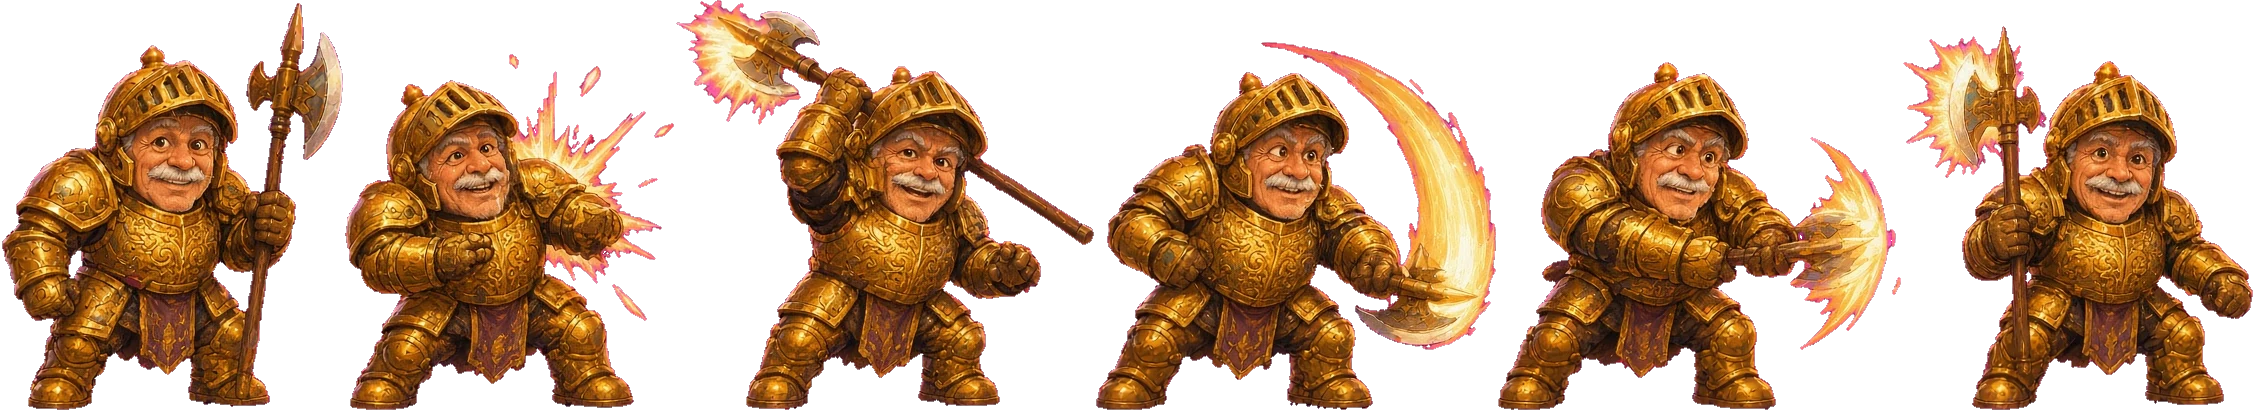
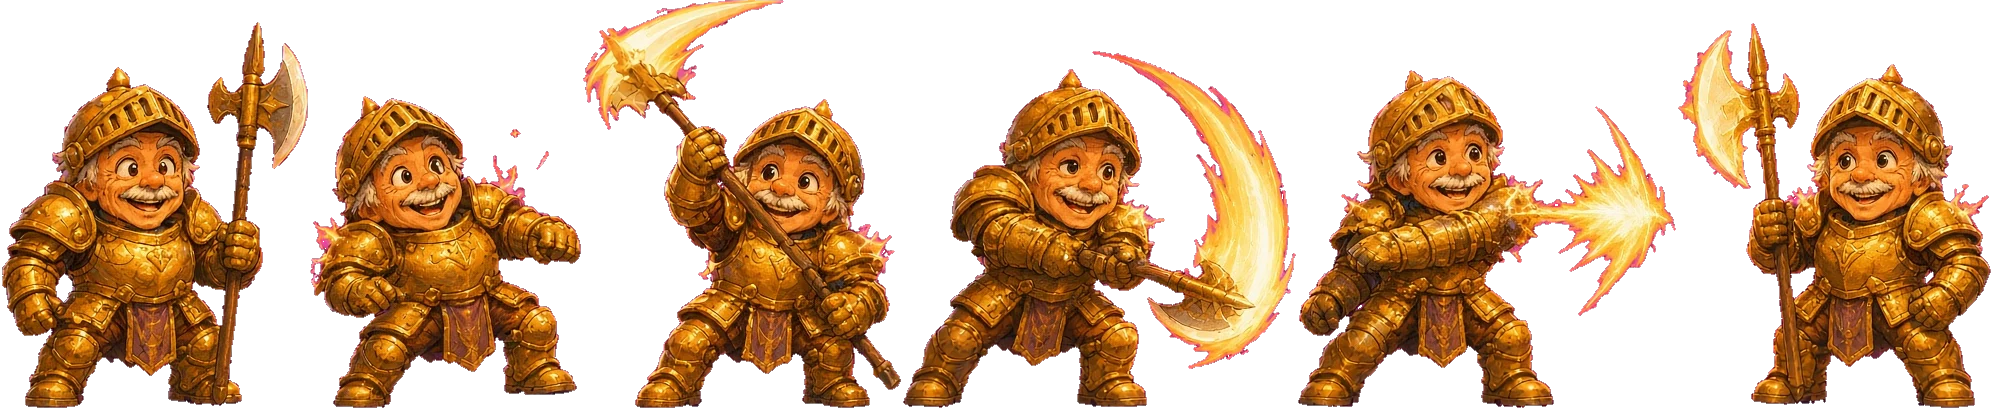
feat(foe): Warden Boppy painted sheet v2 with the new Boppy hero refs (warden2)
Claude-Session: https://claude.ai/code/session_01RXeukCcoDZiCMPdkG8dSdS

diff --git a/data/foes/warden-hires.js b/data/foes/warden-hires.js
@@ -1,4 +1,4 @@
 'use strict';
-// data/foes/warden-hires.js: generated by tools/sprite-bake/bake_foe_sheets.py from art/raw/enemies/enemy-warden-v1.png. Do not hand-edit; rebake.
+// data/foes/warden-hires.js: generated by tools/sprite-bake/bake_foe_sheets.py from art/raw/enemies/enemy-warden-v2.png. Do not hand-edit; rebake.
 if(typeof FOE_HIRES==='undefined') var FOE_HIRES={};
-FOE_HIRES.warden={"src":"art/foes/warden.webp","k":8.119,"frames":["stance","hurt","attack1","attack2","attack3","attack4"],"rects":{"stance":[2,3,341,407],"hurt":[345,54,329,356],"attack1":[676,0,418,410],"attack2":[1096,42,400,368],"attack3":[1498,62,403,348],"attack4":[1903,26,350,384]},"rows":{"stance":["....................................a.....","....................................b.....","...................................cb.....","...................................cb.....","...................................de..f..","..................b...............ddg..ff.",".................hgg...............ij..kf.",".................lmgabn........c..oho.cgff","................bggpghppa......q..rsocccff","...............abgpplstecg....drqormjrccff","..............cmpmrgcmcmgmg...ojltrioqccff",".............cqhiqchegeeeppb..ojttqlloqckk","............erqritggegouvwpp...j.iquirockk","............arlrrisrwxxxvvvsa....xwuwoock.","............shhiqiwocrdrlwvvp....tou.ooee.","............gglltjdchsccccxvd....too.ocee.","............hrxtomprdpbdhcuxd....xu..oca..","...........djwucpapoapawcstj.....jo..ca...","........cdmjuxhqpbbbbbbaabjd.....oj..a....","......bgmqigqwtghabaaanabnwg.....rt.......",".....nmpgggmgjlmhaakkcceaaup.....r........","....admgkkngpqrmdaccgegeesjmpn..ti........","...brmpnfnkgmsxtiabbaappajjqhg..uo........","...crmpgggbpqsxxxhabapabcvwqhrsolhc.......","..crmgeggppmimlltjlabbbcxxwmqiijjlls......","..xxuckbsqrqsqiqrpggsdqllxvurxuuiqqs......","..jlhmwqpmmshwlpggegppsrqtuixtvxoorm......","..tjogpuxsstvlrpeeeegpsmpqwvutxxwird......",".hhsgcllvvvvxjqmgeeeeggppmwvujxxojih......","cwlqgsrtxvvvuwrsgeeeegppmquxuxvvvut.......","oirhegmlvxxxxllqmpgegggpmlxvvvuxxxr.......","clrmebmru.uxuwirqppmpmpmrwuxuxvutw........",".diqgepi..uxxwlloirhmqhijl..ljujt.........",".drqmrll.ouwiwuwlirrrrijuu.....oj.........","..rulegootwrrhhxulirrrltxuu....i..........","..xtqgerujimggiuvxuwwwxvxjla...i..........","..ujrmmruuqgesqwvruxxxxwvmqdc.tr..........","...jjluuwwhebppxxmjttjjtvqmqi.ji..........","....uxuxxipegpltxmioooioxxhtrhto..........","......dxlmeesmxlxpoodorrxxxggqll..........","......oxwqgsptvvvqjosorivuiqgqod..........",".....cutrplxxwxvvrtopdowvxilltoc..........",".....ojtippixvvvvroohorjxjwijti...........",".....oowiliwt.uxxwiodorxujljwwd...........",".....olwlwjtx....uurdm.uxjrmjtr...........","....doihqlow........p..uvwlmlto...........","....oimmllju...........uxjilurqb..........","....cmepmwj............uxxxlwqqqp.........","...cjrpmrlj............tuxuwtljrd.........","....ulcroj................................"],"hurt":[".........................................",".........................................","..............................fk.........",".............n................f..........",".......mba.bpggce........n...nn..........",".......dqgbpgjcepgb......n...............","........mpgroelsneen.....n...............",".......pghqghsegtxxjg...nk...............","......cpqospggtxuuvvj...kk........nk.....","......driirsqwjrdcoxua.nfk.n.....nk....k.",".....aillrriocaapcpocnbkfkbn..a.nk.......",".....ajiwlltqpdsptpcskkffkkn.n.nkn.......",".....aiqjlwdpiombabgqkkffffnnnnfk........",".....aqhitdpsaaabnabqsppgkfffkfkb........",".....dhiltcabnbphpkacmgenbbfffkn.........",".....jiwwihmaaeknggbcoeenbgbefkb.........","...ddmmruxisapcocccacxgpggpppgfknb.......","..dppggghxuhpaaaaabbtxxqqspihpgnnb.......",".nmpeknemswqtpabbbnejjxuihireeegan.......",".cmgenepihxvvuipbbacqqrwqitqsgpgggn......","airmekgggquvxxxtocsppsijxxriqpqqihekn....","ciimcoltuvuuwwimmpgpggmlvvujilillrpnnkn..","cilxhsqqlotrimsmgcpeegprxvvxujuilqa......","cixirhegggphhpghoigeeppqxowxxwuxrbkn.....",".xxiqggnnkehqmmcrsqggpmrwnegolwjabnbnn...",".xlhiqqpmpmulrrquuhgpmqidbbnknbaa........","..jiwiiiiiruuuwxuimpmmijr..nabkba........","..jwwwwtwwjxvvxwwlmmqiluld...............","...luwwuwwwuvuujwliriljxlqmb.............",".....ljwuxvvvxujutirijxwqgmma.....k......",".......cuuxuuxxuutllwxxxwppsid....nk.....","......bjuwijwuvvxvxxxtrxxxhsqd.....nn....","......oirmgphxxuluxjuorxuiqbepsb.........",".....txulggplxxtqjtttdlxtlmpekgp.........",".....ulmehlcvxxuqtooodjvxwwrpbsrp........","....dlrpepitwvvxrjimoctvvxxirqrom........","....ojqepqlwxvvutodmirlxvvuwlirra........","...cjtrmmilxxvvjtjroodr..uwjrrrra........","...oltwjltx.xxxuiooorr...uulqqmqg........","..dlihwjwut......iod......xulmgljp.......",".cjqmijiwt........d.......uulliggpa......",".cqbnplwx.................txxlrgepqp.....",".ormpqluu.................uxutiqpqid.....",".tlqhiju......................wlooj......"],"attack1":["....na.............................................","...annbn...ff......................................","..bkknennnaeekff...................................",".kkfffnbeekecceff..................................","..akfffepsgmqccce..................................","..nkffffkephhct....................................","..nkffffferlrmq....................................","..nnkffnesmiiiqcc..................................","...nffffegchc.jotd.aa......b.......................","...kkkffkgggc..dxtqmhs....dpabmpk..................","...bnkfkffkeee...ddqpph...begmirea.................","....bknkkkkkknn..aqpgpqiegbmgjslggb................",".......kbbkkn....acmmquudppmgsgmpegb...............","..........nb...ampegrluxiimpggescqsg...............","..........b....ameeqitltiimprxvvvvvib..............","..............ehgkgqwciwrqlxtjjtxxvvo..............",".............ncpeesilcrjruxoccdrojuvvc.............",".............pmeepmoqrrwttdcscapsduxxd.............","............oxxlhpqouwwxcmphtihacccxud.............",".............xtrixjuvwxlhpbbapbdtsoxt..............",".............oipmixxvrihmdabbbbbppxxxjd............",".............lwljlwxvsmpmdankcppbbx..xoc...........",".............dljluxxxiipmmscgeceapt....wrc.........","..............xxvvvvigwwudbahdtcgdq.....xthc.......","..............vxvvvxuuluxlabaaaapuqc......urd......","..............xvvvvxvvtltjdbnbbaxxlhg......utdc....","...............xvvvvxljmmqgegapvxvlhsa.......uih...","................vvvvwheggggegmqrltuscc........utdc.","................cwxuimeekeegpsmhrluqqc..........xro",".................ouwiqmgeekbggpsmlvvora.a........j.",".................owjlqrspeeeggmscovxtsqomig........","................aljwliqmpggeggmmhovxqgrtuosd.......","................cwuwjjirhqppppqriuvwilitxwto.......","................cxxxjllirqhmmqilwxvxxxtuuuuj.......","...............arrmslxujrrmmrilji.uuxxxvuxxw.......","..............adqpberwvwlrriljwxu..jutuxvvt........",".............acrmbnghrvuxwuljuxxwl.................",".............crqgegspwviwuxxxxvqmrq................",".............xxjhgppqxvqotlxuwuxspjo...............","............coqgeiimvtxrrrjuiltuxqprp..............","............rrpepmiwxxwrrrooqxxoqpgema.............","...........porgepdluvvtdoqjjivvxlrmgpc.............","...........dllrrqrxxvvrdoroolvvxwjrqir.............","...........olilllwuxxxwrjoool.xxwwili..............","..........dirrlljx....utlorr..txwrrli..............","..........dtiqrttt......dd....xxwimild.............",".........cqpprwto.............uxjrrspp.............",".........cqgemjx..............uxuwrpbqm............",".........oimmoju..............uxxttrmii............",".........utqcou...................................."],"attack2":[".....................aaaa........................",".........................abbba...................","...........................bbbbbn................",".............................bnnnnn..............","..................pb..egpn.....bbnnnn............","..................ipanggoes.....bbnnnn...........",".................cmgggogqcgc.....nbnknnn.........","................empphrgieresg.....nnnknnb........","...............aqphrsrggkesqpe.....nnkknnn.......","...............crriwmppoxvvvvo.....bnnkknnnb.....","...............oiilrhottjluuvvd.....bnkkkkkb.....","..............aqplliuodcchcovvi......nnkfkkn.....","..............hgmlwwdmhdapccuxd......bnkkfkkn....","...........icclrivompacrpdomct........nkkffkkb...","........bpppqsjjuidpbbaaaacc..........bnkfffkn...",".......empgbesgvwrppbbabbnbgc..........nkffffnb..","......cqmgnkkppxjlmpaekccaapc..........nkkffkknn.",".....crmpgeegppxjlqpacgeekkcm..........nnkfffknn.",".....uwusemppqhxxjhmbaapccpjsme........nnkffffkn.","....oqpploghriqxuxvjabbaabcwhgge.......nnkkfffkn.","...ojltcquirqiujiirtupbbngvqrgsdc......nnkkfffkk.","..cqseeqtuvjuxlqsppesoodclvtrqsccb.....nnkkfffkk.","..uqpengrxvvxjqhgggepmgrijrxujuqggb....nnkkfffkkb","..limgnephixxlrmgeeeeppmmqixvxqpeepg..bbnkkffffkn",".dilrqpclhhjliimggeeeppgpmqxvxqmgegpb..nnkkffffkn","..tllirwqpgswjtrspgeeggpmmjvvujirmmhb.neekkfffffk","...rlwxwoqmqruwimppeggppsqjvvuxuuqigg.nebnkffffkk","....hiuwllritxwjqqsmppmmqlt.vuxxilqgqbggbbfffffkn","......uwlwuwxxwwjrqmmqrilti...uwltqrthcqmgkffffkn",".......txxuxvvxutirirrlijj.....uuuwxlqpgpgnffffk.",".......oxxuwwuvwwiiiljwuuxua....uuuuwuwihgnkfffk.","......cjimgpqovvxjijjwuxwqroa......c.jutqmgenkkn.",".....arhpggppxvxxxxxxxvvsgpqwj..c...jormgfffffkb.",".....xxwqepsutxotxuxxxxutpelld..ccooooccpekfffk..",".....qrpejmtxtxrottjwlxuuxjhesp..cccccccpgekfk...","....olmegrwuvvxqoootioxxxjlmeepb..cceneekkffkb...","....orgesrtuxvvooiqjolvvxxwqmsqp....ankkkkkn.....","...ojirqrlxvvvjjorrijjvvvulllil..................","...dwjlljljvx.wloroorl..xjwliil..................","...olillju.....odoodj...uwlirii..................","..ojsmrjjj.......hm.....julrpqic.................",".comqjiww...............xutirqqs.................","crpnpixwu...............uuxwrpepp................","olmmqjtxu..............tuuxwirsqrm...............","ttrhrtt....................ujldit................"],"attack3":["....................bb............................","....................pg............................","...................dmpeegpb.......................",".................naggkpmgrgg......................","................bpggpheleopsa.....................","...............ampqipregegpgp.....................","...............cmrlumpeegqtuse....................","..............brrlirmruvxxvvvcn...................","..............bgsirrtoccdltxvvg...................","..............mpiqwjrcccamcovvh...................","..............iqutdpmaqiphccuxd.........n.........","...........dctltjcpaabcpacopot...........nn.......","........crlhhtwwosabnbbabsgsc.............nn......",".......ccccqhhxwoqaaaapanbnqhb............nkn.....",".......ccggegsqwiiabekkcpabrmqb...........nnkn....","......cqpekkgqsxuwaaccgeekplppmb.........nnnkkn...","......drmbnngprxvxmabbaaaaormgpmg........nkkkfk...","......orqmeecwwluuxdbbbabqvwqpsjmg......bnkffffn..",".....cjjjqrtqghtoliqpbbngxvqjlprmpg....nkfkffffk..","......ojiqxpgqcggppqmjrhowxuirlqggbb..bbgekkfffk..","......ctixumqtrgkkgppmmqrluvvutmhrilhpccccbekfff..","......hiwvwitoopgpneegmsimmxvxwtqgmitdrssgnkkfffn.",".......swvxtvxuhrqgenknheegqwxxoohirqgpbeeekkkffn.","........jvxuvvxwjiqmmpsmgepmujoqohjirhmrrsgbnfff..","........jjxxvvxuwwllrqwimmmixwuwwjjwllirqceekffk..","......dutuvxxvuuwujjjlxirqrutx.uujwwd.ccggbeffkk..","......uxouuxxxxxxuxwwwxjllwxj........ccccbkffffn..",".......cojwwjxxxwwjuuuxxwwwu.........aaankkfffk..n","......nclqqqtlvxjliwwuxxuxoa...........nnnkkfkk...","......clqggsjwvvxxuwuxvxwjlrp..........a.bnkkk....",".....ctlpegqrxvvxxxxvxvxqqsqwi...........bnknn....",".....uutiqgpjxvxtxxxxwvvwmsirmp..........nkbn.....",".....rrbgituvxxjtujujjvxvxtmegsb........bn........","....oqpgpituvvvrjoitruvvvwwmgbpg........n.........","...dorggmixvvvvqtorjivvvvxjimmrm.......b..........","...oolrrrwvvvvwojodirxx.vxjliilm..................","..cjljwwwlxxxxurjoroqx...wjrqrim..................","..dllijjju......iodio...twjipqrm..................",".owihrjwt........h.......xuipgiq..................",".cqgpwjxo................xuljqgpg.................","cqpnpixx................juxuimegmg................","olqmqitu................tuxwlimpqr................","jjdmrtt....................jliqhot................"],"attack4":["...........................................","............g..............................","....nnnbnn.ng..............................","....nkkkkknbga.............................","....nkffffkegc...........b.................",".nnnnkfffffesc..........gba................","..bkffffekfkrpk.........mgggk..............","...nffffggfksa........beegrmea.............","...nkffkcsphsmcc....ngpgssrrgrg............","..nkfffkgshrmqhmp..npmqigcgjbhsg...........","..bkfffechqiqhqrm..pmjmlegegegmc...........","...nkffeccmmqmorm.bqqimpecouuxqpg..........","...kffkncpngli.h..pirhhluttxvvvib..........",".nnnkfkesgknqh....gqmjuoccddiwxvh..........","...nkkkegbnatl...chrttdcddpaccoxxa.........",".....kknea.aod...dixocpcxcamohctu..........","....nnnnea..od....lqoabbaabstccto..........","........n...jd..adiqmabnbbbbabst...........","............jdgpprlimaabecaaabco...........","............dddpqsliraageecgkaor...........","..........bcodgngmgqxmapdcccgatrma.........","..........phiqoegspqvupbbaaaaduxmmb........",".........jtcsciqpmhsvvupbbbbcvvxggpb.......",".........rrqrqttirjuwwlimaadxtuwsmpg.......","........ggommmluliojqqmgesmhqrrliimhb......","........psjrrqwxuuvqhpggegmshsmjxrqqp......",".......aqiuorluxvvvihgbenegpppsoxxxtqa.....",".......dllxujlwxvvwrmggenegppshivuhhmqp....",".......ojjwvxvxvvvxlrppgeggppmqlvuqsegmb...","........ttwxxxjxxxxlirmppppmmmrwvtjrpeempa.","........jwuuuuitxxxwllrqsmmqrljtvxulrqtrhr.",".............olduxxwwlliirrrllu..uxuwuopsh.",".............joxwiiiuiwliiilwuwu...jxxxmqqc",".............jijmgpqwvxuwljwxxutts...utljor",".............iiipbgmtvwxxxxxtxxhruw..uxwtwo","............clojgemhuxjouoxjrxxtrmr....uuj.","............wtiiqjswtuiojotrixxwpgpmg......","............hjlsgrxxvxioodooqvxiipepp......","...........drtoqpiuxvvioohoojvvxirmqr......","...........hiuilrlxxvvrijqooovvxjiilr......","..........jriulwjwxvxvurodoqo.xwihrjr......","..........oqiujjww...tu.dhh...wwiqqim......","..........orhlwww........m....uxlrgij......",".........oipmwwuu.............txwirppmb....",".........dmeerwxj.............uuxwrpehq....",".........odpmrwu..............uuxtjrsil....",".........tocdiw............................"]},"pal":{"a":"#cd6d3c","b":"#de8541","c":"#9c6229","d":"#944c1b","e":"#d69c45","f":"#f7e19e","g":"#c17e30","h":"#9a5a1e","i":"#824615","j":"#713a14","k":"#f1bf69","l":"#763f14","m":"#aa5e1b","n":"#eea254","o":"#794418","p":"#b86b21","q":"#94541a","r":"#8a4a16","s":"#ad6a20","t":"#673914","u":"#5b2f12","v":"#301a0e","w":"#643411","x":"#4e2811"},"eyes":[[23.9,20.5],[28.6,20.5]],"mouth":[26.0,25.0],"cells":[42,50]};
+FOE_HIRES.warden={"src":"art/foes/warden.webp","k":7.286,"frames":["stance","hurt","attack1","attack2","attack3","attack4"],"rects":{"stance":[2,22,306,386],"hurt":[310,96,271,312],"attack1":[583,0,318,408],"attack2":[903,51,393,357],"attack3":[1298,70,378,338],"attack4":[1678,23,313,385]},"rows":{"stance":["..........................................","..................................ab......","..................................cd......","..................................ed......",".................................afd..gg..",".................................ahi..jgg.",".................................khh..lmg.","...............nm................ode.ppbg.","..............efde...........d...odahppjgg","..............fdlljjl........qp.acdoahppgg",".............drdlddfjcl.....qfceocnohhppmg","...........chhddcerarlpp....efaescdkddcpmg","..........phdhhclkldpjpci....cokshhoeappmm",".........lfhcfdtrpdrdaadhi...a..shfffaclmm",".........paefedhndhsuuuvcd......saosccpjm.",".........akkedhdestkkkvuued.....skk..apbm.","........pweeohevaaphipaavuf.....whf..ppmb.","........afcefsvaqiinniihaus......tv..pbb..",".......lpekwvkqihfinxikiasw.....vw...jj...",".......pawkvaqnillpnxplphll.....vf...j....","........awtalinimaaxxcpjdli.....se........","........pwwalinnrrxnxrxrli......ta........","......peewoofhnrrlrhqqlrnp......sk........","......akwepfqqiipjmblbmlitc.....wf........","....lcdnnfhcweinqvtapwaddvhi....ka........","...pfhrrbjdduvqnxnffhkrnskdnn...wa........","...aqhnrmbdheuveirxnnrdvuoljrl..a.........","..cqdddrrndfhsstsexrrluvtkdlldctpd........",".wuvthlrdhlccvtcewwokwahtkdddchkhdd.......",".uuvvvthdfdeesfefhdjrlifesfhptkelhc.......",".aaecfevohfhschdnlljlldrdfvtukvkhhd.......",".uuveldevutvsdhnbjmbjbjrnptvetvfndhe......",".wkfpstwuuuutecdrrjjlrlrnfsvkvvwfefe......","pkfllckvvuuvsoecddnjldrrdfsuvvvsootq......","fkfrjdotusvvtkoechhnndndeevuvsuuuut.......","wkfnjdhs.stsskeeffeffhhocovuusvvvs........","wwfdlcf...vvtoeefdoooqffeo...vvwtt........",".aowhcoo.wskooceeeefeefkkee....aa.........",".wvqrredwtffhlposvvtaosuoheq..sf..........",".swfdlwwkfqdnlfkuavwawwwvhdfq.sf..........","..koohhvtcldlndvuewaqaaauflhk.we..........","..wtksovuteselevuoaaiqccvuovvcse..........","...stt.vsellvttsueafqqffvvwdhotf..........","......atkhllftsuufwcqqafvteljowe..........","......vwedrncsuuucwwiaafvwohhsoe..........",".....ataofccevuuufawheefustktsak..........",".....wotefoot...veeaqqhovskoowe...........",".....wkoooowt......qqh.vvttstso...........","....attopoot...........svtkkktk...........","....vkhlhsww...........vvtttksod..........","....ahljdov............vusvkwtfld.........","...wtkhdhav............vvuvsstofc.........","...sswaekov..................v............"],"hurt":[".......x...b.........................",".......ilindlpr......................",".......qlndsllhcl....................","......cddhhdwjlddi...................",".....phdddkrlhvvsap..................",".....qhhfdddauvvwuve.................","....pfhfhedswqqccavuq................","....cocwhdwppinnnnaut................","....ctechsapnxrxfknpp................","....fwkftwinqnxxapipl....x...........","...jchokvqnplaxxlprlp....x.x.........","....ccevwinjlsxnrnrjcp....xb.........","....ftkapinxbjnhqlblhthilnbm.........","...akowpjhnrjjbjjjpqpsdrjrnxx........","....acppliincllplwcxavlrjldaq........",".....aakkqiiqfukkwlnvufhddasfli......","....kusofqqinrxixnrwveshfdvddnnni....","...x.tkfptsqinnxxrivhhtkheocnldddin..",".xbxieoofptuvuvkddlrdhdouuooqhocrnln.",".xjmihdjrffvttkfdnjldnrdfuvtoktwrhrdq",".xxdhnrbrhotvoohdlljrrrrhsvstsfsfflhi","..nodildddwotfdnrjmjrnnnqtuvsvotvssfo",".bnqddjhefkkfdnrrlrlnrndfe.vv..wvsss.",".afvkpwohfkvtfhdnnrldddhfh...........","xavoclctuvuvstoqhdhhihffek...........","xeosdjldhdevsktkeefffhfocka..........",".kwodchdloleookwfoefcphokkiiq........","..twewffhdkocskoftoochksvfdddip......","..asssohoewvtooskvuswakavuwdhts......","...wwvvvovswhnddvuawapaaktsvfqlnl....",".........twhdndauvcaaqafkvsehhlbr....","........wkqdrddskveaeqqekuvtthdrdh...",".......wuvvollossueafhqaeuuteocffa...",".......stfdlttskuuoaaqfafvvssoooep...","......awodrrdvvvuuokwfhkq.vuvkoehf...","......awkhndfvuuuueewfhoe..vsetkfi...",".....aswokoeks..v.ofefhh...ttkfdcp...",".....akkoeokv........fh....tkecocf...",".....awhfttkw..............swtvclbnl.","....vvtkketw...............svvkehlhf.","....ahrrovt................vussweewa.","....wfddfsv..........................","...vtwfewwv.........................."],"attack1":[".................bmmmmmmbj..................","............xbmgggggmbj.....................","..........bmgggggmmj........................",".......bmmgggggmmjx.........................","...xxxbgggggggmjr...........................","...xbmgggggggbjx............................","...xrmggggggbjx.............................","...mjrbggggbjrj.............................",".xmgbrmmmgmmbj..............................","xjmmbrddnbmmbxx.............................","xbrmgblhndllnxx.............................","jxxgmrdhdndlll..............................","x.jmbrldhhdchdp.............................","..jbjjjjloklaqx.............................","..jjlxxbl.tkh...................jj..........","..xxx...l..vkp.............xlljbln..........","...x........sop..........bifhejhlln.........",".............swplc......xffdhlrwbdrr........","..............fdlhl....bchhhoelllcrln.......","..............dhrhoa..bdfvvuvuvpdledd.......",".............bchhjde..psuapcektveloddd......",".............jefdccc.fuvacqciiqcstdohf......",".............pkeecdokwwwheaixxiqcvefkep.....","............joktotuwpllfqupixnhfifsectc.....","............lokekuuthlliltlxrnvlcqktepa.....","...........bpoffksawtpprrxnrxnvblnesoca.....","...........looqikkakawfhlbcqixrjxnlwkww.....","............eefctfkoettcwlllmmnjxijpwa......","............ekotvvtwhetweveplppiniplp.......","............peotwsvthevvofeewcnniqfac.......",".............paotuuvhhvvkohnxrxitesaj.......","..............quuvtusvssksfinfkuuvpfh.xx....","...............vvvvuuvkfoowetvuvtkhdhijxb...","...............wvtuuuednldhvffhkscnmjdlbbj..",".................avuseddbbjdwheeecdrrnldjxx.",".................ivvofcdrrrjpkccffhdldfelj..",".................mpwaohdnrlrdeawtfhdookofi..","................jlakafehdndndfvesutfcdhfq...","..................atkeefhdhcdfssastvtkacp...",".................letfcedeqffetsvvwuutoccdi..","................nhcfhofoefqkkktvuwhdpdldkp..","...............jlhdlhovtehhfkwtvvfdhdlpcoe..",".............pckhlrjdfvavkekvvvvvskdlddokk..",".............tvvvolddtuceaakwukkvvedfdetvw..",".............lhddasdwuvpaaaeouadkvsodoow....","............jdnjddtvsvtffafacvucpvvkkww.....","............inrjlfovvuteehcfeuvvtktvvuv.....","...........aehddcwvuuueaahfaeuvvscdokvvc....","...........peeoeoksvuuhcahwafuuweohotsvwh...","...........wehhesv...voeciehq.uvskoktk.vkp..","..........lhhfcets......qhq....vsweot...sea.",".........lksphkkt..............stkoos...wvaa",".........fcdeeoto..............vtoekts...saa","........ldjrhsks...............vtsthllh.....",".......iohdhqwvs..............suuvsehde.....",".......wseceesuv.................vvwfew....."],"attack2":["...........................x.x........................","..............................xxx.....................","................................xjjx..................","......................nr.........xxjjj................","......................qn...........xjbbx..............","....................nidlljb.........xjbbj.x...........","..................enrrdldndlx........xbbbj.x..........",".................fhiddddnchldn........xbmmbxx.........","................chdhhfhcdjhmdc.........xbmmbxj........","...............peffhhhcdhrprddd........xrbmmbbx.......","...............pooefwdfddldcpdhx........xjbgmbb.......","..............paeeohfhhetsvvvfdi........xxbmmmbr......","..............pfecohfwwaafftvvkd.........xjbmmmbxx....",".............ppaeefsteqqiiihpcve..........xbmgmbjx....","..............atksskqiiqixxiicsvp.........xbbmgmbjx...","..............wstacincwuixnfaisuq........x.jbmggmbj...","..........akoffasppinxlwxrxpsiww.........xx.bmmgmbbx..",".........pfhdhhlafqnrrrrnnrlpdl...........bxjbmggmbj..","........phdnrmrhpeqinnxrinxnrllb..........xjrbmggmmb..",".......laddddllnhchiqajmlcpjrii...........xbbbmgggmb..",".......pcovtwttoheeixivalpllni.............jbbmmgggbx.",".......pkusodrhtseuqnxieoskinqjbmb.........rbbmmgggmx.",".......wuvkcfeppfcvukixxnixhcnjbmx.........xbbmmgggmj.",".......uvsoshddjrlotvvixrrwtfdrjmbj.......xxbmmggggmj.",".......uusskddhddljrhksswtvfoplnnx........xjbmmggggmj.",".......vvtukffcnndddcddsevuvekothl.......xjbbmmggggmj.",".........suowofhhdhdelndekusoedhti......xbjbmmgggggmj.",".........susvstkkooedddotftawtlldf......bmbmgmgggggmx.","..........wssvttsskwefltvwopcwfaap......xbjmgmgggggm..","...........wvuvvvvvswokkuvkketwsacp.....xdlmmggggggmxj","...........wuvvvuuuvtsvvuvsvtskvsweilli..hdrbggggggmb.","..........wsvvssswvvuvvvvvvvtsssk.tskfplifhjrmmggggbb.",".........tsofkaswkstsetvvv...tto....tstodlldljmggggbb.",".......pwoqdddfsvvtteetvvvwp..........kooohllbmggggmb.",".......vocdnrdfwuuvvtvvvvtwaa.....x...wawffeclbgggmb..",".......suoldhfouuvssttsutohofh....xpaccfachdhlbmggm...","......pkowthdkvuwwwawevuufhhoo.....jlppppddrlbgggmx...",".....poqdckvevvufkwaakvvvvkddjdl....jbjlllljbggggj....",".....afdlcesvvuufaeokkuuttfodlbr.....jmgmmmmgggmbx....","....akcndfksuuusowetwouuuvvednrr......xmggggmmmbx.....","...awtoecesv.uuoowkwwkuuvtkkeffh........xjbbbbj.......","...atwkkwsv....veaoeek..vvvooofp..........rjxxx.......","...kkoowts.......fc.....svkeooch.........xx...........","..atkckswt..............sskkeff.......................",".svvttwsw...............ssowhhf.......................",".aehdkvww...............vwkskpdh......................",".ahnlctv................svvkfnbnn.....................","stedhesv................vvvsweddh.....................","vvwaewv..................uusstafa....................."],"attack3":["...............x....................................","...............nljrjbx..............................","...............hlnrjjrhx............................","..............xrlldhdrddx...........................","............idnllhlpplbdcx..........................","...........xphdddaerldrjdhn.........................","...........pqhhcalhrrlfsedi...............x.........","..........pfffkdenlhwttssvei...............x........","..........ifofffdcaafqqpcauq...............bx.......","..........hfkohhowahinxnncve...............jb.......","..........efceovapifnrxcthpl................bj......","........xlchekvohipvhrxpsnlx............x...jmx.....",".........laokwpqnnmwdxrjirpx.............b...mj.....","..........pttplinnrrxnnnrji..............jb.xmbx....","..........cvokpfirrxjpflblhqx...........xxmjxbmbn...",".........iwwtfkqiicpjjllpifdhxb.x......jxjbmbmgbx...","..........sswsqeiiitvtwtnifdrbmmx......rbmmmggmmjx..","......xx..tvosuufinxnxxxikpljmljn.....jrbmgggggmbx..",".......jxhhhwfsuusfnrnnpflmjbbnjjxxxjbbmggggggggmbx.",".......pdrjbhstuvvssfhlhljrlljjjbbmmmmgggggggggggmr.","......coedrdhkvkohdpphhlrjrhcpdirxxxxjjbmgggggggmbbx","......hchddeecdlplrbbjjlddhotweni....xxbmmmggggmmxx.",".....ovuvedjllbbrcjjldhehoetvwein.....xjjbmgggmbj...","....kuuscnnldplljdddheksotkwswii......x.rbmbbmmbx...",".....vvphdrrddhdhfoeotkttustwpx.........bmjjbmbj....",".....vvatfdlhfooootowssvuuvk..x........jbxxjmbxx....",".....svwwvssstvswtvstvvvvsw...........xx...bmxx.....","....qksvvuuuuuuuvvvvvkfooo................jmj.......","...pfwwtvuuuvvvvoavkoqffcq...............xbb........","..xeocawuuuvuvtceosodeeeei...............jb.........","..ckecwtvuvvvtkkvvvtatvtchd..............b..........",".lahcvsvvvskofovuksecssohrdin...........j...........","qckweuvvswkdddhsukwaaweudnjdcq.........x............","aswutvuvtohhrlcuuawafefvshdhfp......................",".vtvst.wocljcdsvvekaqcfvvvsddln.....................","..vvv.wweplpevvuvoaecfcustkedjrn....................",".....aocllcfsvuuveacfacuvvvfdddh....................","....akkhddcwuvuusfwacahvuukwoeee....................","...awkkkefewv..uwfcacif..vvtoefq....................","...akkdcowst......ach....vktkohq....................","...aefhosts..............vskohhq....................","..wstccksw...............wskocaka...................",".aehdfsos................wskvollln..................",".ahlrhtss................svvtehrrdi.................","wtedhetu.................svvssoddfa.................",".vwcawsu...................uvssacww................."],"attack4":["..........x................................","......b...x................................",".....mm...r................................","....bgb...ri...............................","...xggj...ni...............................","...mggj...dl...............................","..xggmb...hl.................j.............","..jggmmj..qd................nli............",".xbggmmbx.id..jx........mjbjldq............",".xbgggmmbnfdfnjr.......lhrldjrnld..........",".xbgmmgmbdedclddi.....ldhbebhdjjlp.........","xjbggmbjbrfdhhhdi....lfdjlplfjdldlp........",".jbgggbbmjhdcfchi...jdddadjdllahdhf........","..jgggmmjdfcd..c...jdhtvuutpjhdfffoa.......","..xgggmmnnqhd......jcsuskkotshrehkof.......","..xmggmbr..ke......cvvpcfqhpcaadcecc.......","..xbggmmj..qh.....nvvccphiihhfwohedpp......","...jmgmmb..eh.....qvkhieixnqfqifsoffpl.....","....jggmb..qf......phivaqxnwppiifskoc......","....xbggb...fq....bbhnwpxrracmnnlpwwa......",".....xbgb...fe....bjhrnxxrxrjrxnjlljl......",".......xm...ef.....ihjriqiirxjrnleqp.......",".........x..ef.....qhnlbllmmjpnnihac...x...","............ef..jbjatnqaclpafnnnehef..x....","............pdqxbblkvknneqcnrxnealchlbj..x.","..........xdcotcdnrevuvnnnxrnfvvrljrrjjbbi.","..........idddoehdhcvvuvnrrcstwhdrmbrnjmx..","..........iceosvhfhovhouvvkapctddrrjjdhlx..","..........pchhkvwffvoochcddnhcshdddljpecp..","..........ckoevstsuvcccdddllldkcffdfvvsvua.","..........csvuutvvuedddrrrbbjdcschsvflnhap.",".........nekuutvvuvkhcdlrlrrldeuuuuehcosva.","..........otkvosvuutefhddrnnddfsuuuvvorlhc.","...........ktvosvvvktkfhddiddikttuuvkcldfkc","............ktat...kswohhhchhfokvvwtdlbdfow","..............ow...tatkffeddcfetvstelbrdoa.","..............ka..ekoswqcffhhdfkskfhpddckt.","..............wq.feovvtfeessfldcaajbdfeow..","..............wfhhdeutvvvswkdbrcehlddoska..","..............wfehhvvwwaakwudnlfkwehfkva...","..............keshotseaaaaauodlavktooo.....","..............kevsvttkaqfaouvcvesvtvw......",".............iaeoeovswaqaaeuvukhlfvsv......",".............qeaekvuvawfwaouuuvedjdfwt.....",".............qoaoowutfwfaefuuuwocdhefeq....",".............eokoesuvwffhqws..ssoofhhff....",".............etoefwvs.eqq......ttecdhha....",".............hoofotv...........kstfclha....","............kwswckss............kwodpooq...","...........lndewftvv............ttsoddht...","...........fdrcswvvs.............vtdjjnh...","..........awcdovsvvv.............vteddcoa..",".................................uswofakw.."]},"pal":{"a":"#8c4e16","b":"#f3b851","c":"#a85d17","d":"#c6791d","e":"#974f12","f":"#9f5312","g":"#fbe9a8","h":"#af6419","i":"#ca6a21","j":"#eca540","k":"#84410f","l":"#d38b2e","m":"#f9d16c","n":"#dc7a28","o":"#89470f","p":"#b26e23","q":"#ac5517","r":"#ec9634","s":"#69350e","t":"#713a0f","u":"#3c1f0b","v":"#5c2d0c","w":"#774012","x":"#ec8837"},"eyes":[[14.3,20.4],[20.2,20.4]],"mouth":[18.9,23.6],"cells":[42,53]};

diff --git a/index.html b/index.html
@@ -1384,7 +1384,7 @@ document.addEventListener('click',function(e){var n=e.target.closest&&e.target.c
 <script src="engine/tiles.js?v=tom4"></script>
 <script src="data/villagers.js"></script>
 <script src="data/recruit-rig.js"></script>
-<script src="engine/painted.js?v=deedeeinst1"></script>
+<script src="engine/painted.js?v=warden2"></script>
 <script src="data/tom-hires.js?v=ab1"></script>
 <script src="data/tom-hires-use.js?v=ab1"></script>
 <script src="data/story-poses.js?v=emo8"></script>
@@ -1599,7 +1599,7 @@ document.addEventListener('click',function(e){var n=e.target.closest&&e.target.c
 <script src="data/emotion-moods.js?v=emo14"></script>
 <script src="engine/emotions.js?v=emo8"></script><!-- mood faces and poses in story dialogue (batch 0: chapter 1) -->
 <script src="engine/tapwalk.js?v=wind1"></script><!-- tap to walk -->
-<script src="engine/main.js?v=justinab1"></script>
+<script src="engine/main.js?v=warden2"></script>
 <script src="engine/music.js"></script>
 <script src="data/songs.js"></script>
 <script src="engine/music-clips.js?v=music1"></script>

diff --git a/engine/painted.js b/engine/painted.js
@@ -11,7 +11,7 @@
 // Atlas: one image of equally sized frames at K times the rows' resolution. Battle sheets are K = 3 (Boppy 4) since sharp1
 // (2026-11-05, Tom: the party looked blurry in battle; K = 2 was stretched up to 1.45x on a phone). See tools/sprite-bake/hires.py.
 // ART_V: cache tag for every painted atlas image (2026-11-01, heads1: all adult battle heads re-baked).
-const ART_V='deedeeinst1';
+const ART_V='warden2';
 const PAINTED={};
 // Cast ids that own painted sheets (paintedOwners, below). Longer prefixes first: tomride before tom.
 const PAINTED_CAST=['tomride','tom','grace','rose','tnb','amy','deedee','boppy','nara','justin','olivia','jojo','michael','ellie'];

diff --git a/engine/main.js b/engine/main.js
@@ -83,7 +83,7 @@ startSplash();
 (function(){
   const sp=document.getElementById('splash'); if(!sp) return;
   const d=document.createElement('div');
-  d.textContent='build justinab1';
+  d.textContent='build warden2';
   d.style.cssText='position:absolute;left:8px;bottom:4px;font:10px monospace;color:#fff;opacity:.45;pointer-events:none;z-index:50';
   sp.appendChild(d);
 })();

diff --git a/tools/sprite-bake/bake_foe_sheets.py b/tools/sprite-bake/bake_foe_sheets.py
@@ -81,7 +81,7 @@ MARK = {
     'hushling': {'eyes': [(.59, .53), (.82, .49)], 'mouth': (.77, .64)},
     'turnstile': {'eyes': [(.54, .25), (.63, .26)], 'mouth': (.57, .35)},
     'drillworm': {'eyes': [(.58, .25), (.69, .24)], 'mouth': (.60, .53)},
-    'warden': {'eyes': [(.57, .41), (.68, .41)], 'mouth': (.62, .50)},
+    'warden': {'eyes': [(.34, .385), (.48, .385)], 'mouth': (.45, .445)},
     'hush9final': {'eyes': [(.70, .40), (.84, .40)], 'mouth': (.72, .60)},
     'marlowe16': {'eyes': [(.74, .37), (.84, .36)], 'mouth': (.81, .42)},
     'greynote': {'eyes': [(.30, .41), (.63, .42)], 'mouth': (.46, .52)},

diff --git a/docs/ENEMY_SHEETS.md b/docs/ENEMY_SHEETS.md
@@ -103,7 +103,7 @@ Match by file name first (`<id>_sheet.png`, `<id>-final.png`, or the enemy name)
 | hushling | foe-hushling-v1.png (4 frames plus a spare stance on the right, `--extra-ok`; white streak and specks between x 1697 and 1797 blanked in the saved source) | stance, hurt, attack1, attack2 | 2026-10-30 | no |
 | turnstile | foe-turnstile-v1.png (Turnstile Grump, 4 frames, lone stance on row 2) | stance, hurt, attack1, attack2 | 2026-10-30 | no |
 | drillworm | foe-drillworm-v1.png (Dual-Coast Drill Worm, chapter 13 boss, 6 frames, `--cut-y 370 --trim-edges`) | stance, hurt, attack1 to attack4 | 2026-10-30 | no |
-| warden | foe-warden-v1.png (Warden Boppy, chapter 14 boss, 6 frames; frames overlap in x, so cut with `--cuts 340,656,968,1415,1866`; specks under 25 px removed from the saved source) | stance, hurt, attack1 to attack4 | 2026-10-30 | no |
+| warden | art/raw/enemies/enemy-warden-v2.png (Warden Boppy, chapter 14 boss, new painted-Boppy sheet, baked with bake_foe_sheets.py) | stance, hurt, attack1 to attack4 | 2026-11-06 | yes (Library approved) |
 | hush9final | foe-hush9final-v1.png (HUSH-9 Final Form, chapter 15 boss, 6 frames, `--cut-y 386 --cuts 318,692,1037,1466,1884 --trim-edges`) | stance, hurt, attack1 to attack4 | 2026-10-30 | no |
 | marlowe16 | foe-marlowe16-v1.png (Marlowe Transformed, chapter 16 boss, 6 frames, `--cut-y 356 --cuts 312,645,1002,1399,1870 --trim-edges`) | stance, hurt, attack1 to attack4 | 2026-10-30 | no |
 | greynote | foe-greynote-v1.png (Grey Note, chapter 16, 4 frames, `--cut-y 380`) | stance, hurt, attack1, attack2 | 2026-10-30 | no |

diff --git a/docs/CHANGES.md b/docs/CHANGES.md
@@ -1,3 +1,10 @@
+## 2026-11-06 (376): Warden Boppy boss installed from the new approved Library sheet (`warden2`)
+
+- Fact (Tom 12:40: new `enemy-warden` sheet generated and approved, v2, painted-Boppy refs): `bake_foe_sheets.py warden` rebaked `art/foes/warden.webp` (6 frames, atlas 1993 x 408, stance 306 x 386) and `data/foes/warden-hires.js` (rows 42 x 53). Same grid and frame order, so engine and wiring unchanged.
+- Aim points re-measured for the new stance (`MARK.warden` in `bake_foe_sheets.py`: eyes (.34,.385) and (.48,.385), mouth (.45,.445)); checked on the contact sheet.
+- Tested: test fight Warden vs Tom, Grace, Rose at 393 x 852 and 852 x 393 (`tools/shots/warden-fight-*.png`), smoke `FAILS: []`, tag_check ok. `ART_V` and build stamp moved to `warden2`. The Warden speaks no dialogue box lines, so no portrait.
+- Likeliest phone notes: faint pink flecks in the glow of the swing frames; hurt and swing frames sit slightly higher than the stance (feet aligned by alpha bottom).
+
 ## 2026-11-06 (375): Young Boppy hero painting from Tom; hero entry removed (Art Library only)
 
 - Fact (Tom 12:38): he supplied the Young Boppy hero. Saved as `art/raw/characters/boppy-young-hero-ref-v1.png` (1024 x 1536).
